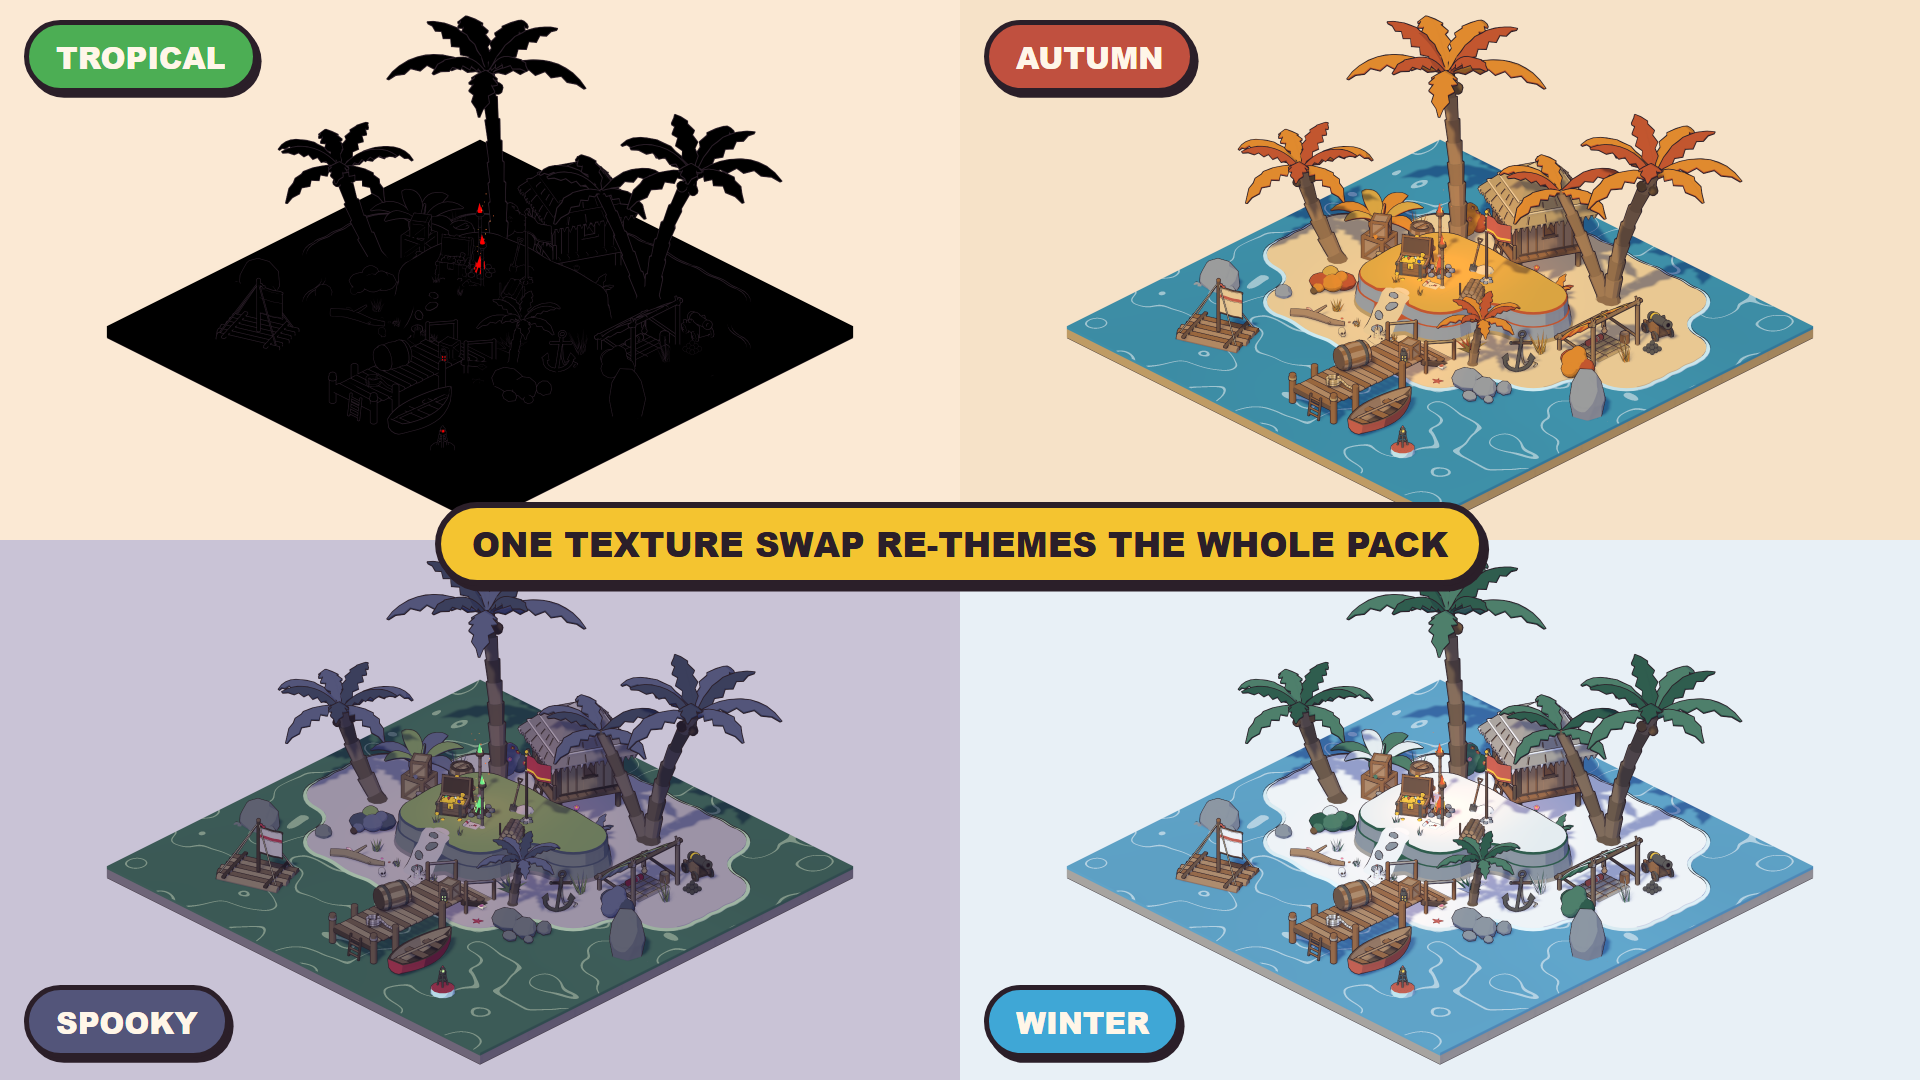
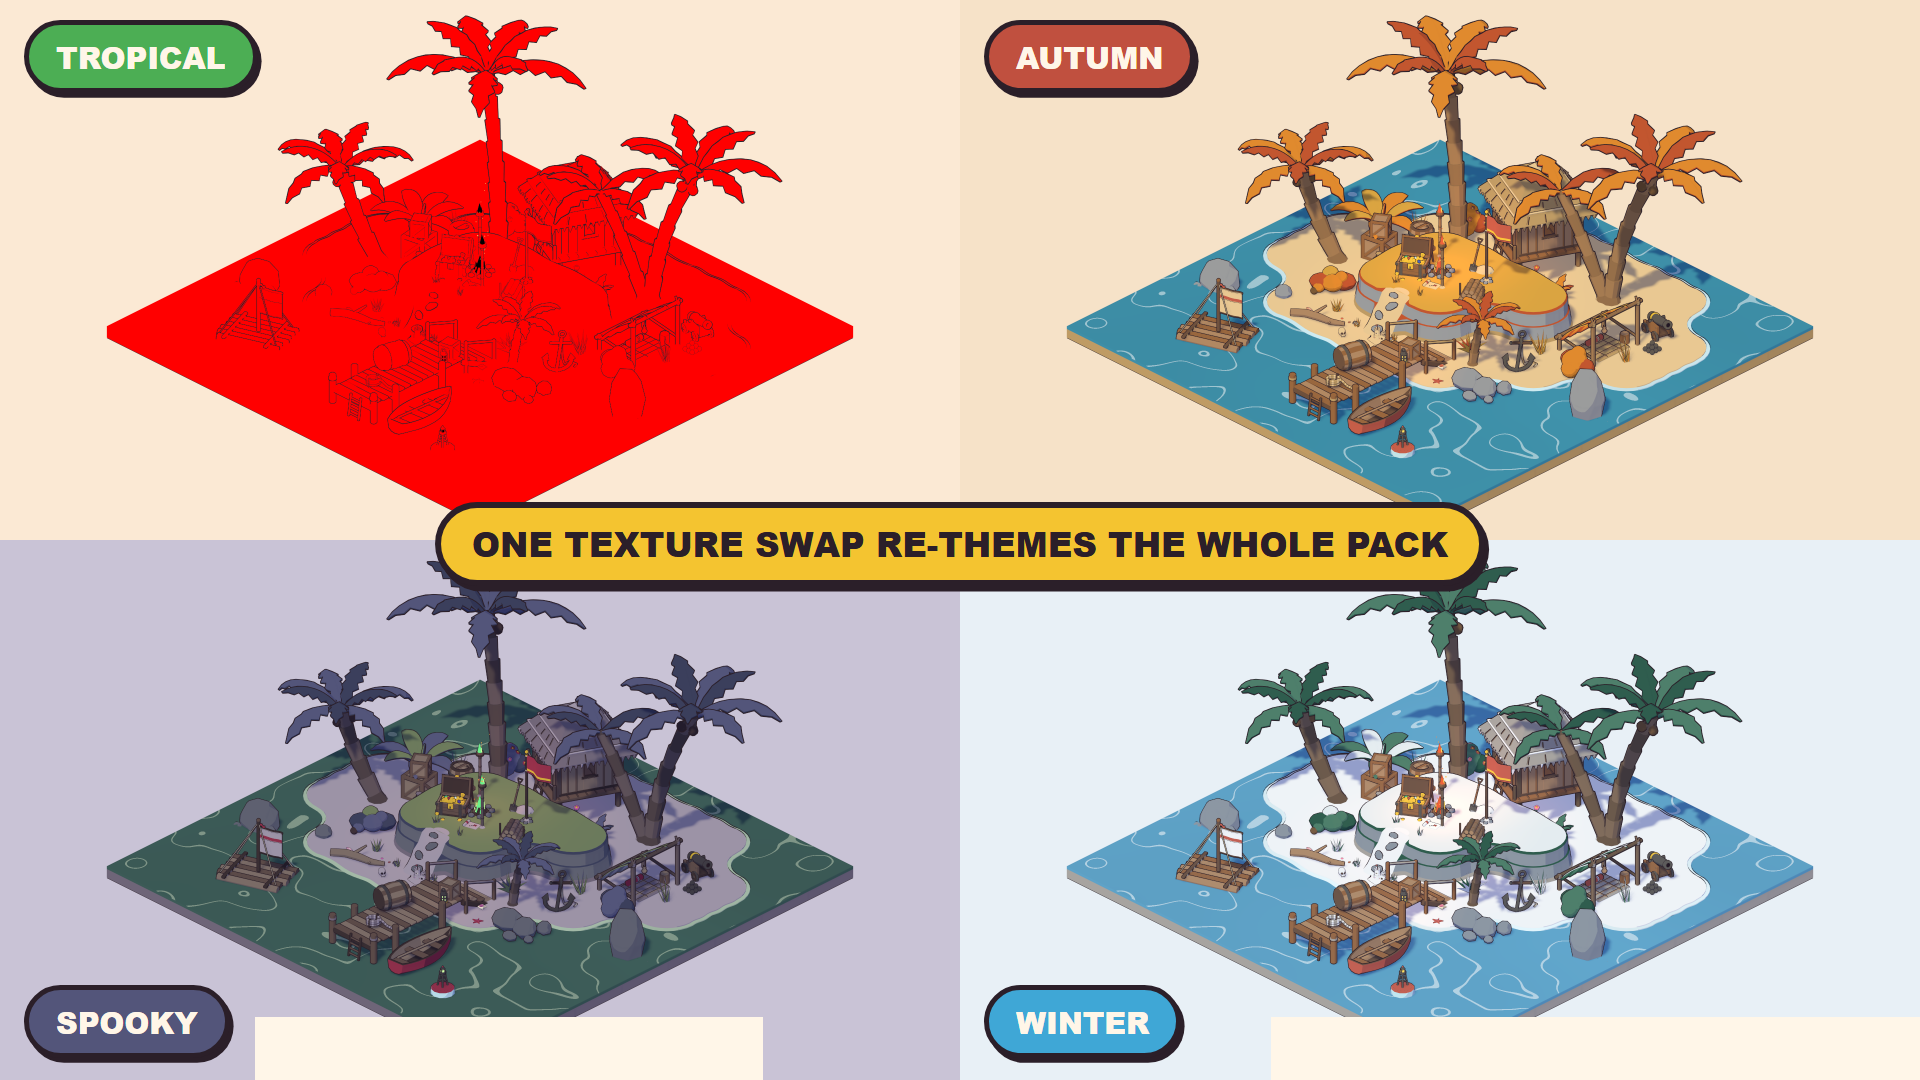
Toon Tropical: Unity Asset Store and Fab buttons on the web demo and docs page

Changed region(s): [[0.0625, 0.0, 0.4375, 0.4889], [0.125, 0.9167, 0.4062, 1.0], [0.7188, 0.9167, 0.7812, 0.9778]]

diff --git a/toon-tropical-demo/index.html b/toon-tropical-demo/index.html
@@ -109,7 +109,8 @@
   </div>
 
   <div id="links">
-    <a href="https://www.fab.com/sellers/Halfwatt%20Games" target="_blank" rel="noopener">Get Toon Tropical</a>
+    <a href="https://assetstore.unity.com/packages/3d/environments/landscapes/toon-tropical-stylized-island-dig-site-pack-421046" target="_blank" rel="noopener">Get Toon Tropical</a>
+    <a class="alt" href="https://www.fab.com/listings/d5a3631a-0260-4217-a777-6510e3ab08c4" target="_blank" rel="noopener">Fab</a>
     <a class="alt" href="https://halfwattgames.github.io/toon-tropical/" target="_blank" rel="noopener">Docs</a>
   </div>
   <div id="touch" class="card">Best on a computer: walk with WASD, look around by dragging.</div>

diff --git a/toon-tropical/index.html b/toon-tropical/index.html
@@ -55,6 +55,8 @@
          For Unity 6, URP and Built-in.</p>
       <div class="btns">
         <a class="btn" href="../toon-tropical-demo/">Play the web demo</a>
+        <a class="btn" href="https://assetstore.unity.com/packages/3d/environments/landscapes/toon-tropical-stylized-island-dig-site-pack-421046">Unity Asset Store</a>
+        <a class="btn" href="https://www.fab.com/listings/d5a3631a-0260-4217-a777-6510e3ab08c4">Fab</a>
         <a class="btn alt" href="ToonTropical_QuickStart.pdf">Quick Start (PDF)</a>
       </div>
     </div>
